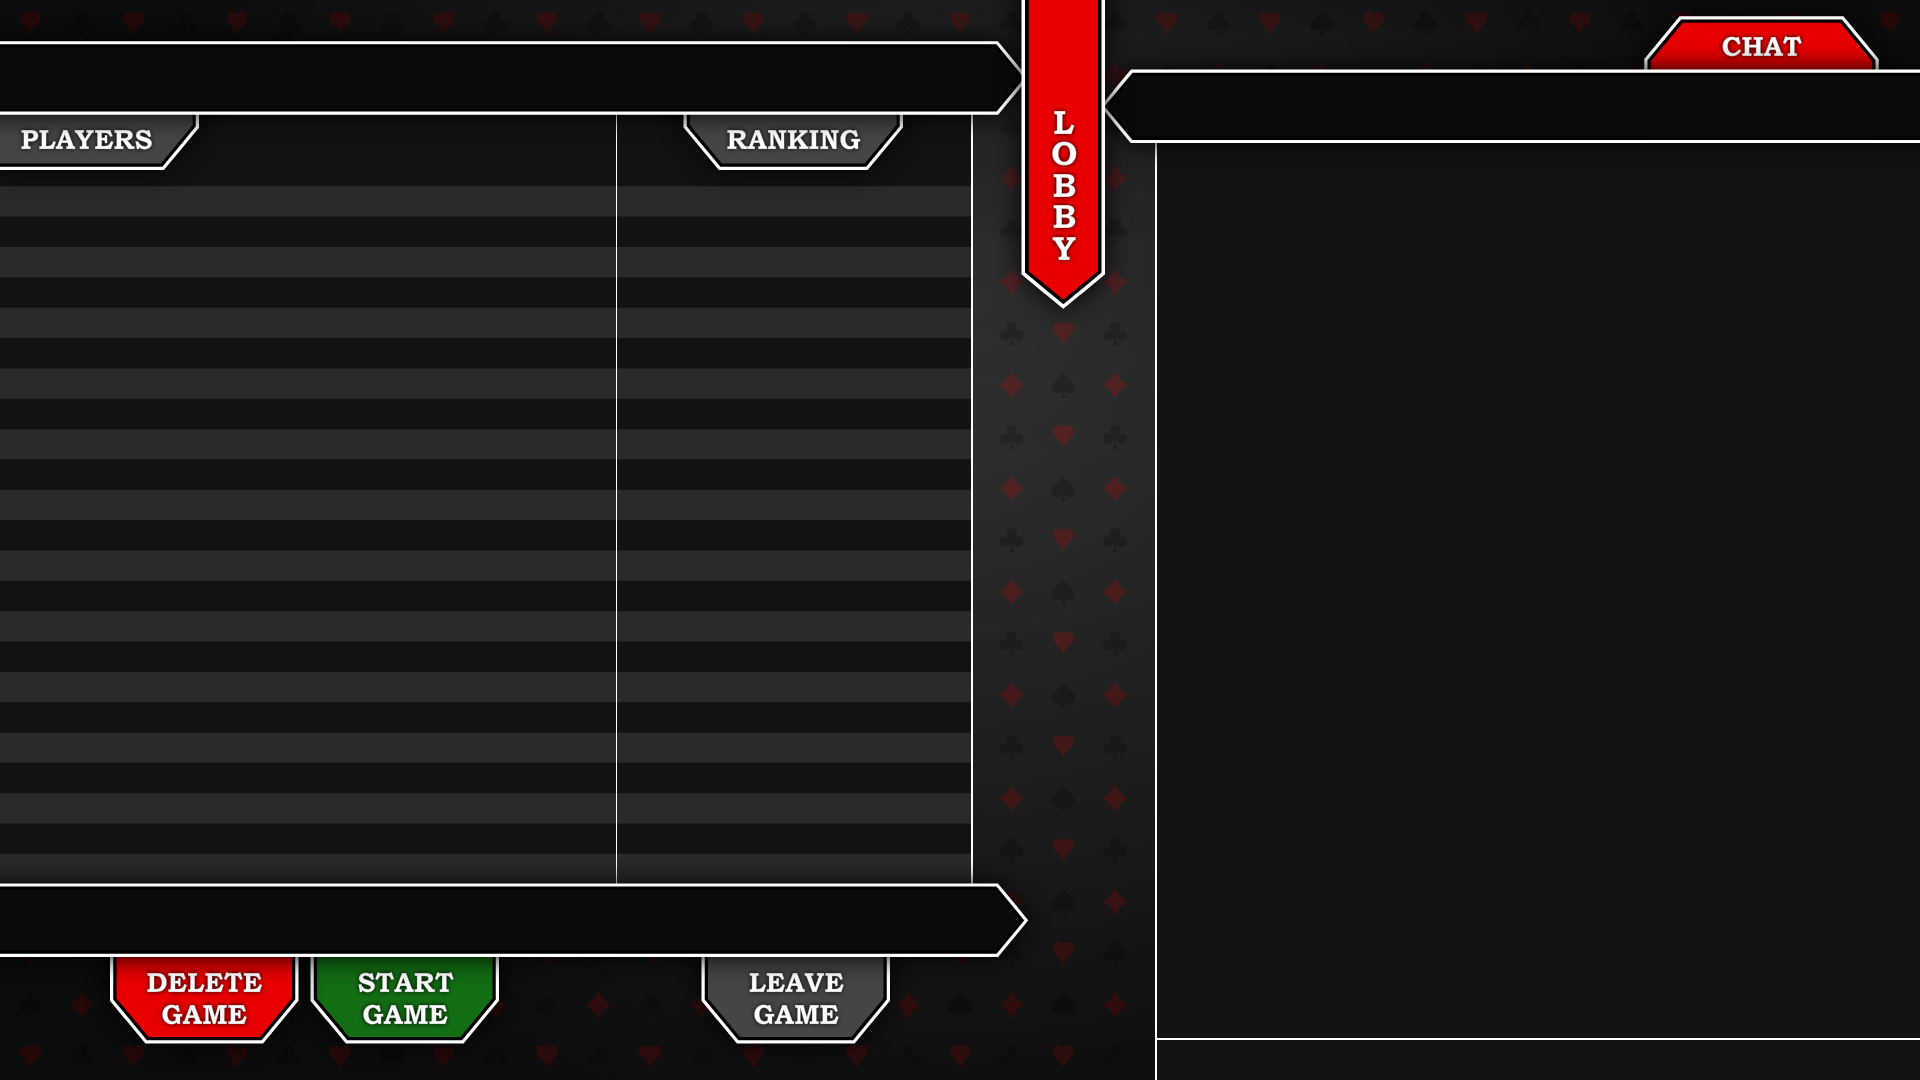
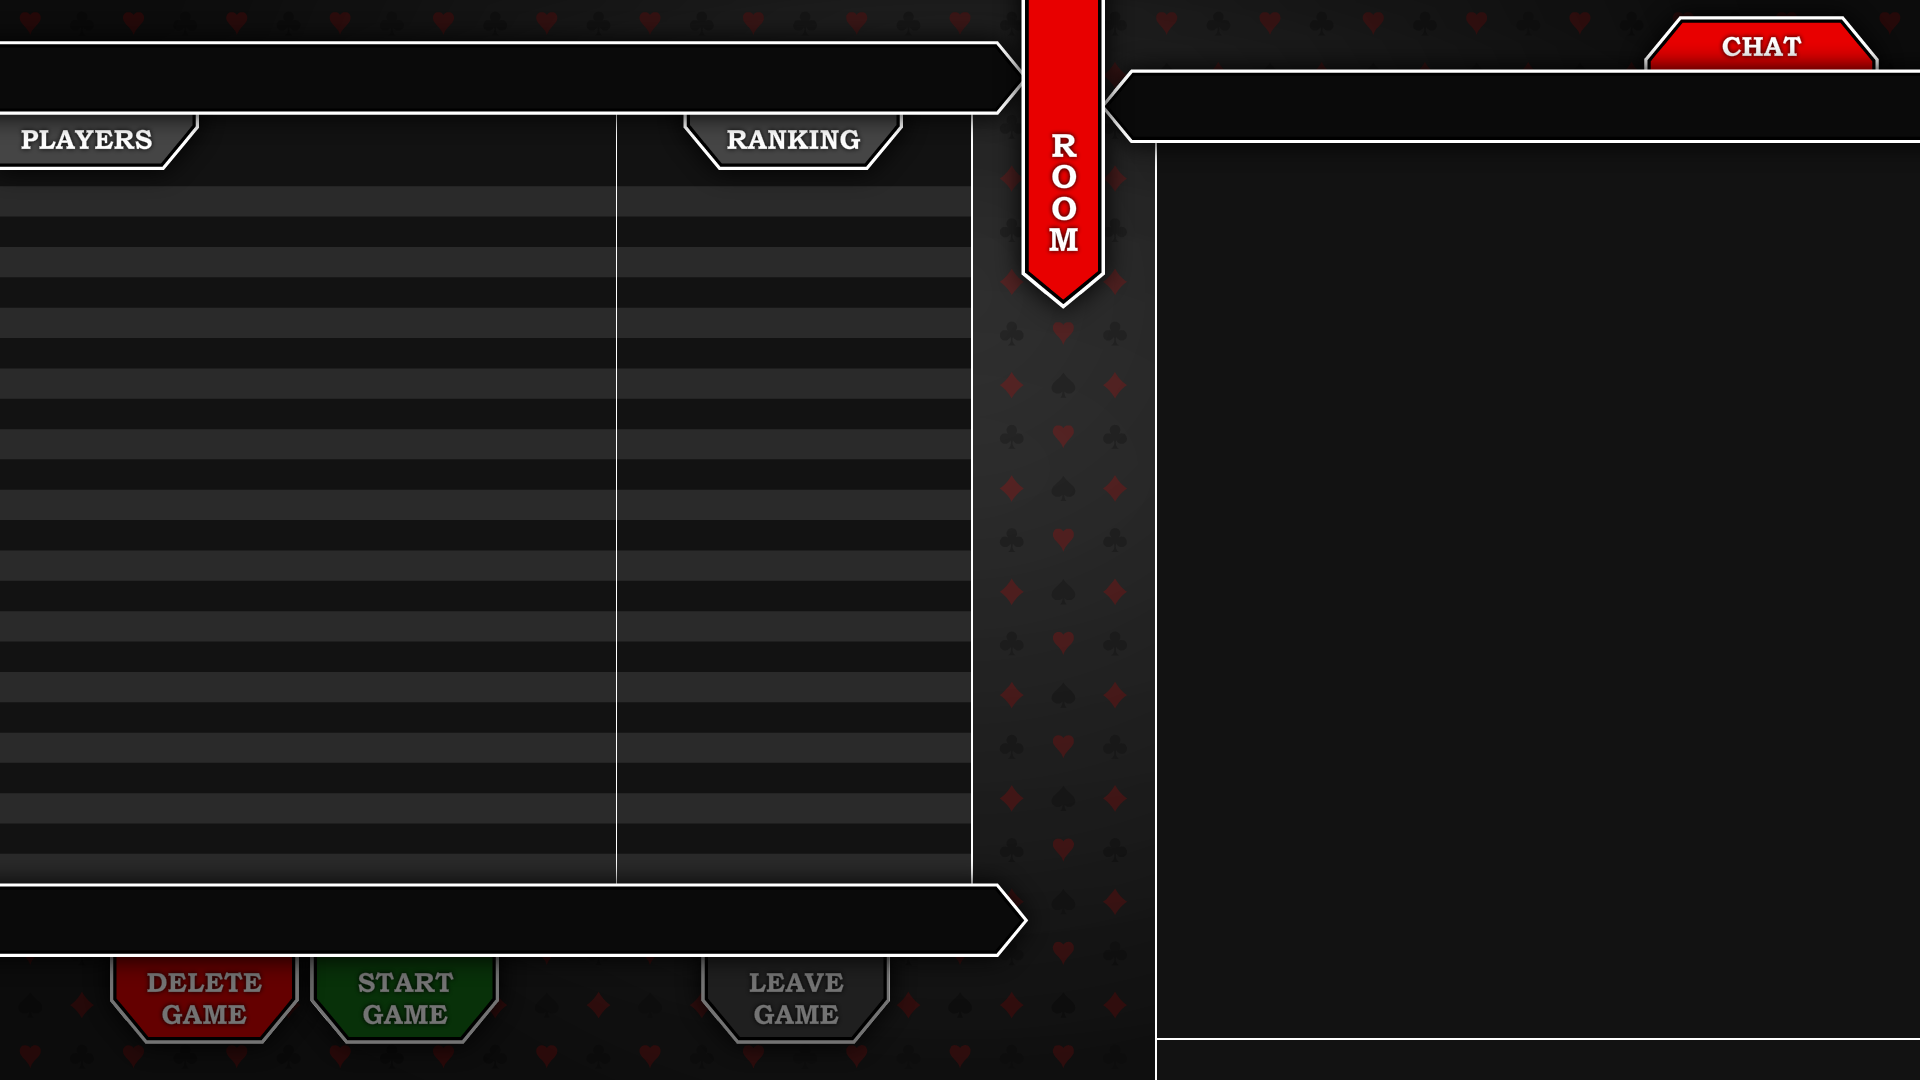
Online knopjes doen het

Changed region(s): [[0.0312, 0.8861, 0.2812, 0.9778], [0.3438, 0.8861, 0.4688, 0.9778], [0.5312, 0.0917, 0.5625, 0.2444]]

diff --git a/OnlineSchermen.cs b/OnlineSchermen.cs
@@ -251,6 +251,9 @@ class lobbyScherm : Form
         List<Control> deelnemerLijst = new List<Control>();
         TextBox invoer;
         Label uitvoer;//ha!
+        Bitmap buttons;
+
+        GraphicsUnit units = GraphicsUnit.Pixel;
 
 
         public lobbyScherm(Form back)
@@ -267,10 +270,13 @@ class lobbyScherm : Form
             this.FormClosing += sluitThreads;
             this.MouseMove += hover;
             this.Click += klik;
+            this.Paint += this.teken;
 
             delGame = new Rectangle((int)(109*verhouding),(int)(956*verhouding),(int)(191*verhouding),(int)(89*verhouding));
             startGame = new Rectangle((int)(309 * verhouding), (int)(956 * verhouding), (int)(191 * verhouding), (int)(89 * verhouding));
             leaveGame = new Rectangle((int)(700 * verhouding), (int)(956 * verhouding), (int)(191 * verhouding), (int)(89 * verhouding));
+
+            buttons = new Bitmap((Image)CyberPesten.Properties.Resources.ResourceManager.GetObject("Lobby_buttons"));
 
             invoer = new TextBox();
             invoer.Location = new Point((int)(verhouding * 1155), (int)(verhouding * 1040));
@@ -298,6 +304,23 @@ class lobbyScherm : Form
             data_thread.IsBackground = true;
             data_thread.Start();
         }
+
+        public void teken(object sender, PaintEventArgs pea)
+        {
+            if (delHover)
+            {
+                pea.Graphics.DrawImage(buttons, delGame, delGame, units);
+            }
+            if (startHover)
+            {
+                pea.Graphics.DrawImage(buttons, startGame, startGame, units);
+            }
+            if (leaveHover)
+            {
+                pea.Graphics.DrawImage(buttons, leaveGame, leaveGame, units);
+            }
+        }
+
 
         void invoer_KeyPress(object sender, KeyPressEventArgs e)
         {
@@ -411,6 +434,8 @@ class lobbyScherm : Form
             {
                 leaveHover = true;
             }
+
+            Invalidate();
         }
 
         public void klik(object o, EventArgs e)
@@ -555,6 +580,8 @@ class openSpellenScherm : Form
     Thread data_thread;
     Rectangle hostgame, exit;
     bool hostHover,exitHover;
+    Bitmap buttons;
+    GraphicsUnit units = GraphicsUnit.Pixel;
 
         public openSpellenScherm(Form back)
         {
@@ -574,17 +601,33 @@ class openSpellenScherm : Form
             hostgame = new Rectangle((int)(1673 * verhouding) ,(int) (693*verhouding),(int) (252*verhouding),(int)(95*verhouding));
             exit = new Rectangle((int)(1673 * verhouding), (int)(809 * verhouding), (int)(252 * verhouding), (int)(95 * verhouding));
 
+            buttons = new Bitmap((Image)CyberPesten.Properties.Resources.ResourceManager.GetObject("Spellenscherm_buttons"));
+
             this.FormClosing += closing;
             this.FormClosed += closing;
 
             this.MouseMove += this.hover;
             this.MouseClick += this.klik;
+
+            this.Paint += this.teken;
             
             //er is een knop nodig die laat zien create game, met de volgende opties daarin:
             // spelnaam, aantal max spelers en regelset
             // stuur ze dan inclusief parameters door naar create_spel(string spelnaam, int spelers,string/int regelset)
 
             //als één van de knoppen true retourneert, moet er naar het volgende scherm gegaan worden: ga_verder();
+        }
+
+        public void teken(object sender, PaintEventArgs pea)
+        {
+            if (hostHover)
+            {
+                pea.Graphics.DrawImage(buttons, hostgame, hostgame, units);
+            }
+            if (exitHover)
+            {
+                pea.Graphics.DrawImage(buttons, exit, exit, units);
+            }
         }
 
         public void laatSpellenzien()
@@ -715,6 +758,8 @@ class openSpellenScherm : Form
             hostHover = false; exitHover = false;
             if (hostgame.Contains(e.Location)) { hostHover = true; }
             if (exit.Contains(e.Location)) { exitHover = true; }
+
+            Invalidate();
         }
 
         public void klik(object o, MouseEventArgs e)

diff --git a/Properties/Resources.Designer.cs b/Properties/Resources.Designer.cs
@@ -1,7 +1,7 @@
 //------------------------------------------------------------------------------
 // <auto-generated>
 //     This code was generated by a tool.
-//     Runtime Version:4.0.30319.34014
+//     Runtime Version:4.0.30319.18444
 //
 //     Changes to this file may cause incorrect behavior and will be lost if
 //     the code is regenerated.
@@ -620,6 +620,16 @@ namespace CyberPesten.Properties {
         /// <summary>
         ///   Looks up a localized resource of type System.Drawing.Bitmap.
         /// </summary>
+        internal static System.Drawing.Bitmap Lobby_buttons {
+            get {
+                object obj = ResourceManager.GetObject("Lobby_buttons", resourceCulture);
+                return ((System.Drawing.Bitmap)(obj));
+            }
+        }
+        
+        /// <summary>
+        ///   Looks up a localized resource of type System.Drawing.Bitmap.
+        /// </summary>
         internal static System.Drawing.Bitmap Lobby_menu {
             get {
                 object obj = ResourceManager.GetObject("Lobby_menu", resourceCulture);
@@ -891,6 +901,16 @@ namespace CyberPesten.Properties {
         internal static System.Drawing.Bitmap Spellenscherm {
             get {
                 object obj = ResourceManager.GetObject("Spellenscherm", resourceCulture);
+                return ((System.Drawing.Bitmap)(obj));
+            }
+        }
+        
+        /// <summary>
+        ///   Looks up a localized resource of type System.Drawing.Bitmap.
+        /// </summary>
+        internal static System.Drawing.Bitmap Spellenscherm_buttons {
+            get {
+                object obj = ResourceManager.GetObject("Spellenscherm_buttons", resourceCulture);
                 return ((System.Drawing.Bitmap)(obj));
             }
         }
